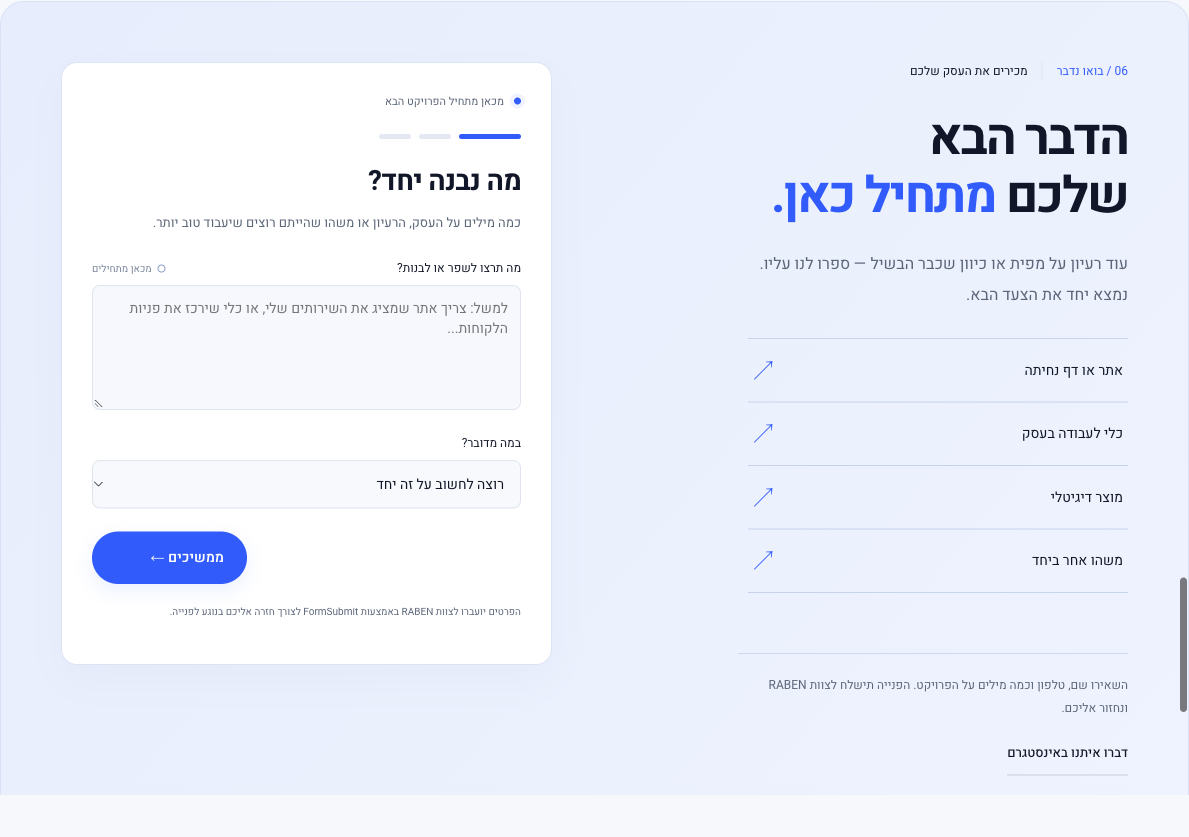
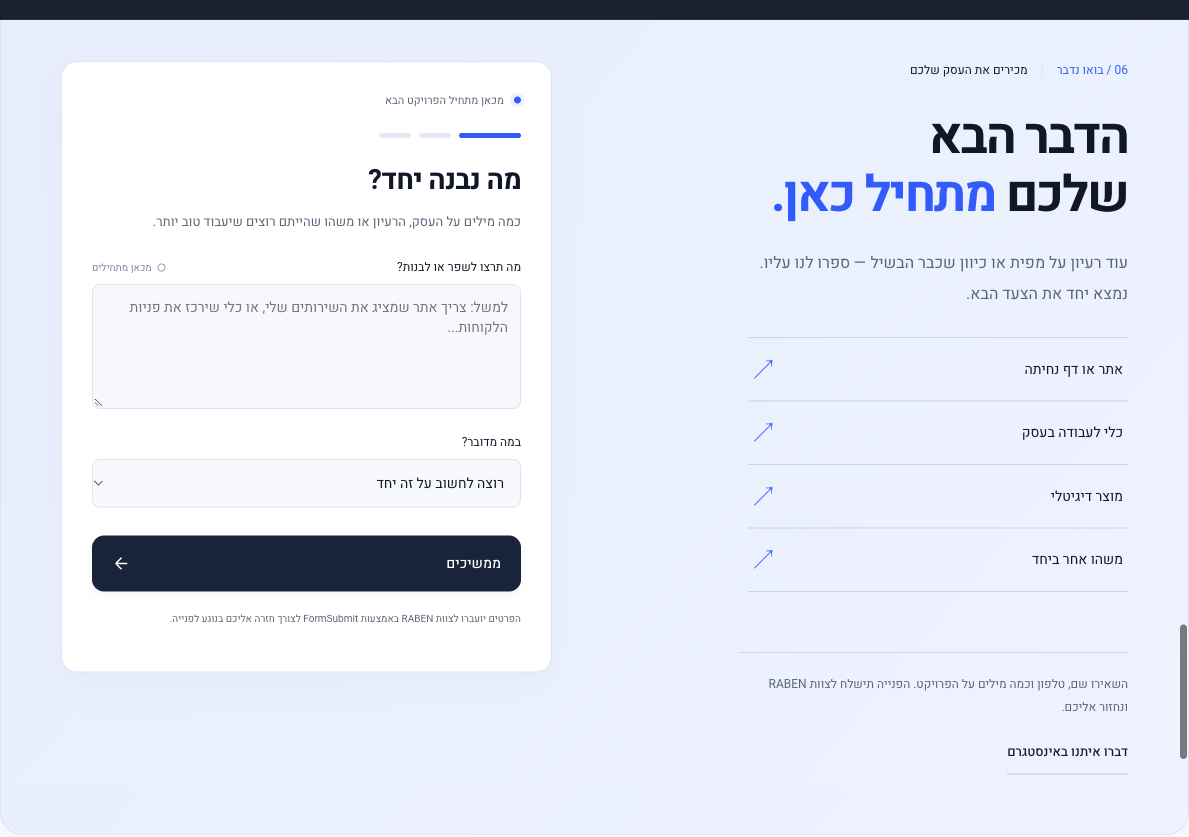
Refine conversation next button layout and styling

diff --git a/dist/index.html b/dist/index.html
@@ -1,6 +1,6 @@
 <!doctype html>
 <html lang="he" dir="rtl">
-<head><meta charset="utf-8"><meta name="viewport" content="width=device-width, initial-scale=1"><meta name="theme-color" content="#101827"><meta name="description" content="אנחנו רז ובן, השותפים שמאחורי RABEN. מעצבים ומפתחים אתרים, כלים לעבודה בעסק ומוצרים דיגיטליים — מהצורך שלכם לפתרון שאפשר להשתמש בו."><title>RABEN — רז ובן. אתרים וכלים דיגיטליים לעסקים.</title><link rel="icon" href="assets/raben-logo.png"><meta property="og:title" content="RABEN — רז ובן. אתרים וכלים דיגיטליים לעסקים."><meta property="og:description" content="רז ובן מעצבים ומפתחים אתרים לעסקים, כלים לעבודה ומוצרים דיגיטליים. מכירים את הצורך שלכם ובונים יחד את הפתרון."><meta property="og:type" content="website"><link rel="preconnect" href="https://fonts.googleapis.com"><link rel="preconnect" href="https://fonts.gstatic.com" crossorigin><link rel="stylesheet" href="styles.css?v=20261110b"><script src="content.js" defer></script><script src="app.js?v=20261110b" defer></script></head>
+<head><meta charset="utf-8"><meta name="viewport" content="width=device-width, initial-scale=1"><meta name="theme-color" content="#101827"><meta name="description" content="אנחנו רז ובן, השותפים שמאחורי RABEN. מעצבים ומפתחים אתרים, כלים לעבודה בעסק ומוצרים דיגיטליים — מהצורך שלכם לפתרון שאפשר להשתמש בו."><title>RABEN — רז ובן. אתרים וכלים דיגיטליים לעסקים.</title><link rel="icon" href="assets/raben-logo.png"><meta property="og:title" content="RABEN — רז ובן. אתרים וכלים דיגיטליים לעסקים."><meta property="og:description" content="רז ובן מעצבים ומפתחים אתרים לעסקים, כלים לעבודה ומוצרים דיגיטליים. מכירים את הצורך שלכם ובונים יחד את הפתרון."><meta property="og:type" content="website"><link rel="preconnect" href="https://fonts.googleapis.com"><link rel="preconnect" href="https://fonts.gstatic.com" crossorigin><link rel="stylesheet" href="styles.css?v=20261110c"><script src="content.js" defer></script><script src="app.js?v=20261110c" defer></script></head>
 <body>
 <div id="reading-progress" aria-hidden="true"></div>
 <a class="skip-link" href="#main-content">דילוג לתוכן הראשי</a>

diff --git a/dist/styles.css b/dist/styles.css
@@ -47,3 +47,11 @@
 @media(max-width:600px){.conversation-form{min-height:490px}.conversation-title{font-size:25px}.conversation-hint{font-size:12px}.conversation-review{padding:18px}.contact h2{font-size:42px}}
 @media(prefers-reduced-motion:reduce){.conversation-page:not([hidden]),.conversation-review:not([hidden]){animation:none}}
 .contact label{display:flex;align-items:center;justify-content:space-between;gap:10px}.contact label .field-cue{display:inline-flex;align-items:center;gap:6px;font-size:10px;color:#77829a;white-space:nowrap}.field-cue:before{content:'';width:6px;height:6px;border:1px solid #8d9fc7;border-radius:50%;transition:background .25s,border-color .25s,box-shadow .25s}.contact label:has(+ :required:valid) .field-cue{color:#547737}.contact label:has(+ :required:valid) .field-cue:before{background:#7eaa52;border-color:#7eaa52;box-shadow:0 0 0 3px #7eaa5215}
+
+/* Give the next step a clear, calm place in the conversation. */
+.conversation-navigation{flex-wrap:wrap;margin-top:10px}
+.conversation-navigation .conversation-next{width:100%;min-height:56px;margin:0;padding:15px 20px;border-radius:12px;background:#19243b;color:#fff;box-shadow:0 4px 10px #19243b0a;font-size:14px;font-weight:500;justify-content:space-between;transition:background .2s,box-shadow .2s}
+.conversation-next .icon{width:19px;height:19px;transition:transform .2s}
+.conversation-navigation .conversation-next:hover{background:#263c66;transform:none;box-shadow:0 6px 16px #19243b18}
+.conversation-next:hover .icon{transform:translateX(-3px)}
+.conversation-navigation .conversation-next:active{background:#101b30;box-shadow:none}

diff --git a/dist/app.js b/dist/app.js
@@ -403,7 +403,9 @@ conversationHeader.after(briefReview);
 const conversationNavigation = el('div', '', 'conversation-navigation');
 const briefBack = el('button', '→ חזרה', 'conversation-back');
 briefBack.type = 'button';
-const briefNext = el('button', 'ממשיכים ←', 'button primary');
+const briefNext = el('button', '', 'button primary conversation-next');
+briefNext.append(el('span', 'ממשיכים'));
+briefNext.insertAdjacentHTML('beforeend', icon('arrow-left'));
 briefNext.type = 'button';
 briefNext.addEventListener('click', advanceBrief);
 briefBack.addEventListener('click', () => showBriefStep(briefStep - 1));

diff --git a/README.md b/README.md
@@ -128,3 +128,5 @@
 ![שיחה קצרה עם RABEN](docs/screenshots/contact.png)
 
 אימות הרענון: Chromium ברוחבי 320, 390, 768, 1189 ו־1440 ללא גלילה אופקית; מעבר בין המחשות והעברת השירות לטופס; הנפשת השאלות ולחיצות חוזרות; חסימת תיאור ריק וטלפון שגוי, סיכום, חזרה ושמירת פרטים, הצלחה וכשל בשליחה מדומה ואיפוס לצעד הראשון. לא נשלחו הודעות אמיתיות. 25 בדיקות האימות, בדיקת תחביר JavaScript ו־`git diff --check` עברו. צילומי המסך עודכנו. שרת התצוגה הסטטי מחזיר 404 ל־`/api/projects` כצפוי; לא בוצעה פריסה. הפחתת תנועה וטופס ללא JavaScript נתמכים בקוד אך לא נבדקו מחדש בדפדפן ברענון זה.
+
+כפתור ההמשך בשיחה רחב, בצבע נייבי, עם פינות מעוגלות וחץ SVG נפרד. הוא ממלא את רוחב אזור הפעולות כדי לתת המשך ברור לכל צעד.
